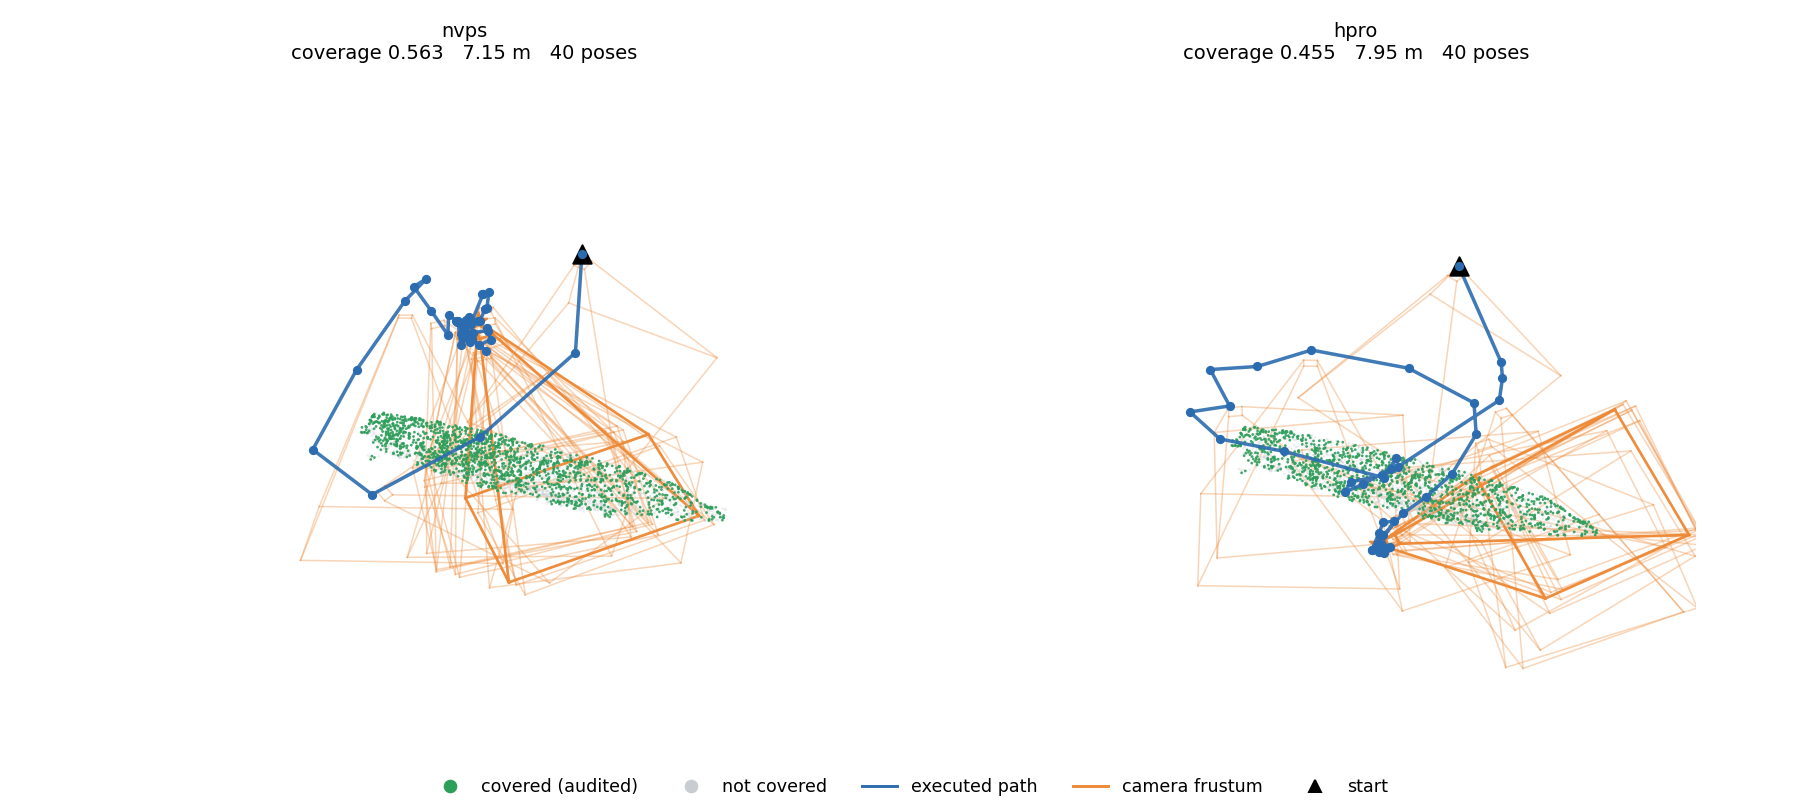
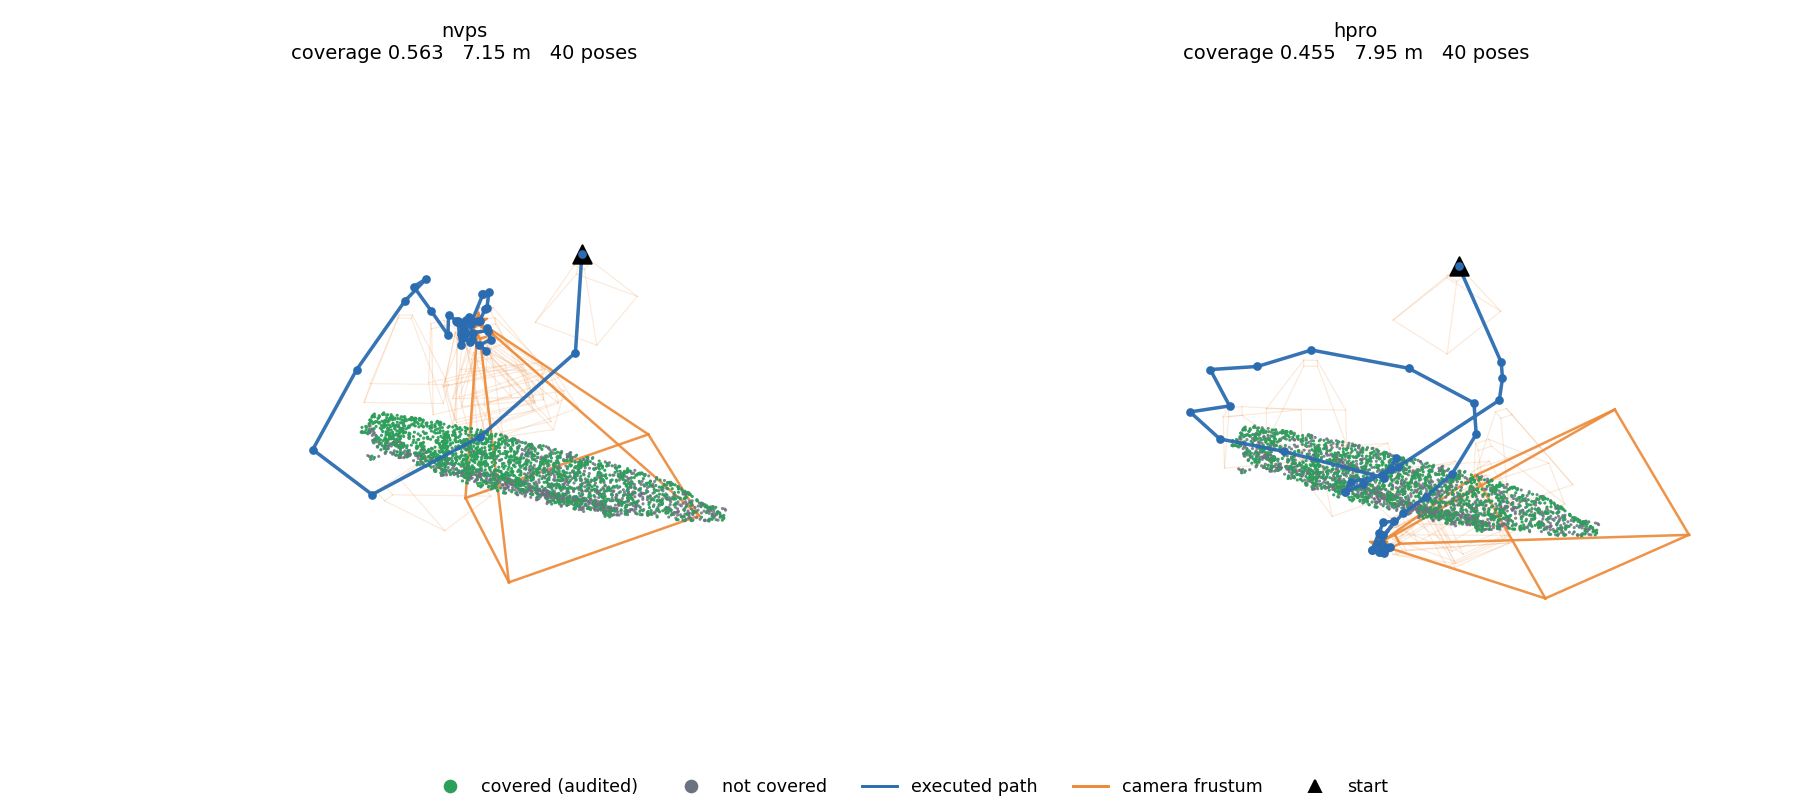
Measure the Stage B rollout's cross-process bimodality and make the rollout figure legible.

diff --git a/hpro/viz_trajectory.py b/hpro/viz_trajectory.py
@@ -127,20 +127,25 @@ def plot_rollout(ax, pts_np, result, cam, covered=None, upto=None,
     if covered:
         mask[np.fromiter(covered, dtype=int, count=len(covered))] = True
 
-    ax.scatter(*pts_np[~mask].T, s=1.5, c=C_UNCOVERED, alpha=0.35, linewidths=0)
+    # Uncovered points are the result being judged, so they must read at a
+    # glance -- at low alpha a 56 %-covered object looks finished.
+    ax.scatter(*pts_np[~mask].T, s=2.6, c=C_UNCOVERED, alpha=0.85, linewidths=0)
     if mask.any():
-        ax.scatter(*pts_np[mask].T, s=2.0, c=C_COVERED, alpha=0.9, linewidths=0)
+        ax.scatter(*pts_np[mask].T, s=2.6, c=C_COVERED, alpha=0.95, linewidths=0)
 
     if T > 0:
         p = result.positions[:T]
-        ax.plot(*p.T, color=C_PATH, lw=1.8, alpha=0.9, zorder=5)
-        ax.scatter(*p.T, s=14, c=C_PATH, depthshade=False, zorder=6)
+        ax.plot(*p.T, color=C_PATH, lw=1.8, alpha=0.95, zorder=5)
+        ax.scatter(*p.T, s=12, c=C_PATH, depthshade=False, zorder=6)
         # Start and current pose: the two the eye looks for.
         ax.scatter(*p[0], s=90, marker="^", c="black", depthshade=False, zorder=7)
         ax.scatter(*p[-1], s=90, marker="*", c=C_FRUSTUM, depthshade=False, zorder=7)
+        # Frustums are context, not the subject: a full-depth pyramid per pose is
+        # larger than the object and buries it. Draw a few, clipped short.
+        stub = dict(cam, far=cam["near"] + 0.35 * (cam["far"] - cam["near"]))
         for i in range(0, T, max(1, every_frustum)):
-            draw_frustum(ax, p[i], result.rot_6d[i], cam, alpha=0.35)
-        draw_frustum(ax, p[-1], result.rot_6d[-1], cam, alpha=0.95, lw=1.4)
+            draw_frustum(ax, p[i], result.rot_6d[i], stub, alpha=0.18, lw=0.6)
+        draw_frustum(ax, p[-1], result.rot_6d[-1], cam, alpha=0.9, lw=1.3)
 
     _equal_aspect(ax, np.vstack([pts_np, result.positions[:max(T, 1)]]))
     ax.set_axis_off()

diff --git a/hpro/RESEARCH_PLAN.md b/hpro/RESEARCH_PLAN.md
@@ -289,17 +289,30 @@ is small (~4 points) but it is a gap, in the baseline's favour.
    matched coverage**. Report that; treat cov/m as diagnostic only.
 
    ⚠ **A retracted number, and the lesson behind it.** An earlier draft of this section
-   reported a "tuned" 0.933 @ 13.57 m and called the race a tie. **That number does not
-   reproduce** (the same config and seed now yields 0.563 @ 7.15 m) and was a lone outlier
-   in an otherwise ~0.6 band — the λ_length=0.01 column of the sweep read 0.658, 0.608,
-   0.607, **0.933**, 0.643. The rollout *is* bit-deterministic within a process (verified:
-   σ=0.000 over 4 repeats), so the outlier came from chaotic sensitivity to float-level
-   differences in process state, amplified over 40 cycles × 30 Adam steps. **Never tune
-   this planner on a single seed, and never promote a single cell of a sweep**: the
-   objective is chaotic in its weights, so one cell carries no signal. λ_length=0.01 is
-   genuinely supported (it beats 0.05 in all five sweep rows); λ_terminal is **not**
-   discriminative (0.658/0.608/0.607/0.643 across two orders of magnitude), so the shipped
-   λ_terminal=5.0 is essentially arbitrary and should be re-derived over seeds.
+   reported a "tuned" 0.933 @ 13.57 m and called the race a tie. **That number is
+   withdrawn**, and the reason is worse than "it was an outlier".
+
+   *Measured, 2026-07-16:* the identical config and seed, run in **8 separate processes**,
+   gives **0.563 seven times and 0.933 once** — coverage mean 0.609, **std 0.123**, exactly
+   **two distinct outcomes**. So the rollout is **bimodal**, not noisy-around-a-mean: it
+   either escapes its first basin or stalls in it, and the 0.933 was a **1-in-8 draw**
+   promoted to a headline. Within a single process it is bit-deterministic (σ=0.000 over 5
+   repeats), which is precisely why the bug hid — every re-check inside one process
+   confirmed it.
+
+   *Mechanism (real, not a defect to patch away):* per-process GPU kernel/TF32 selection
+   perturbs a pose by ~10⁻⁷; that flips points across the **hard ray-cast audit threshold**;
+   the harvested demand changes; every later cycle diverges. The closed loop *is* the
+   amplifier, so any planner harvesting through a hard threshold will inherit this.
+
+   *Consequences.* The λ sweep was **fitting per-process noise** — its neighbours
+   (0.658, 0.608, 0.607, **0.933**, 0.643) were each single draws from this bimodal
+   distribution, so the column carries no signal and λ_terminal=5.0 is arbitrary.
+   λ_length=0.01 beating 0.05 in all five rows is *weak* evidence at best and must be
+   re-derived. Seed-to-seed spread is separately large (0.330 / 0.522 / 0.746).
+   **Rule: no Stage B number from fewer than ~5 runs, always with mean ± std and n.**
+   `eval_trajectory.py` now prints the per-seed spread and the cross-process warning so a
+   mean cannot be quoted alone.
 2. **The stall was a real bug, mitigated but not cured.** With the original weights the
    robot crawled at ~0.05 m/cycle: once local demand is exhausted the coverage gradient is
    ~0, and `λ_length·length` (0.18) outvoted `λ_terminal·terminal` (0.08) — the only term
